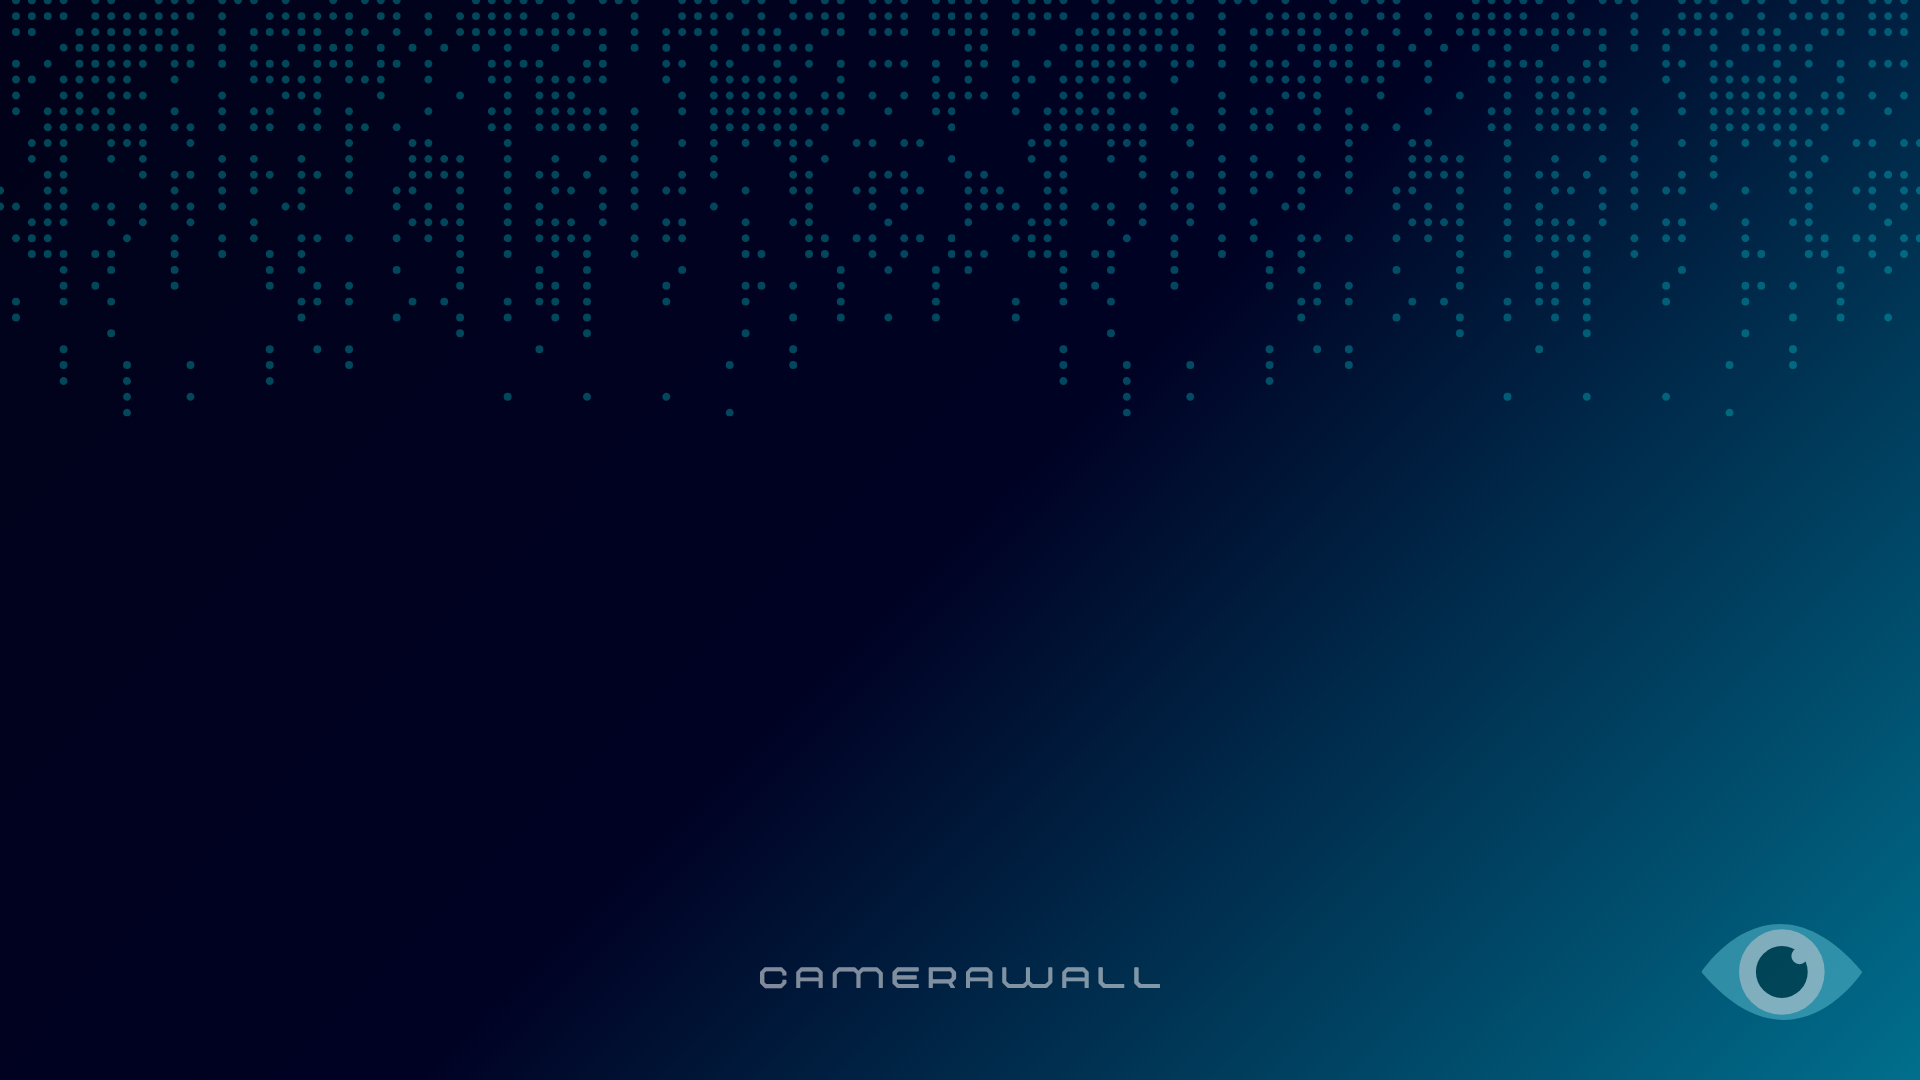
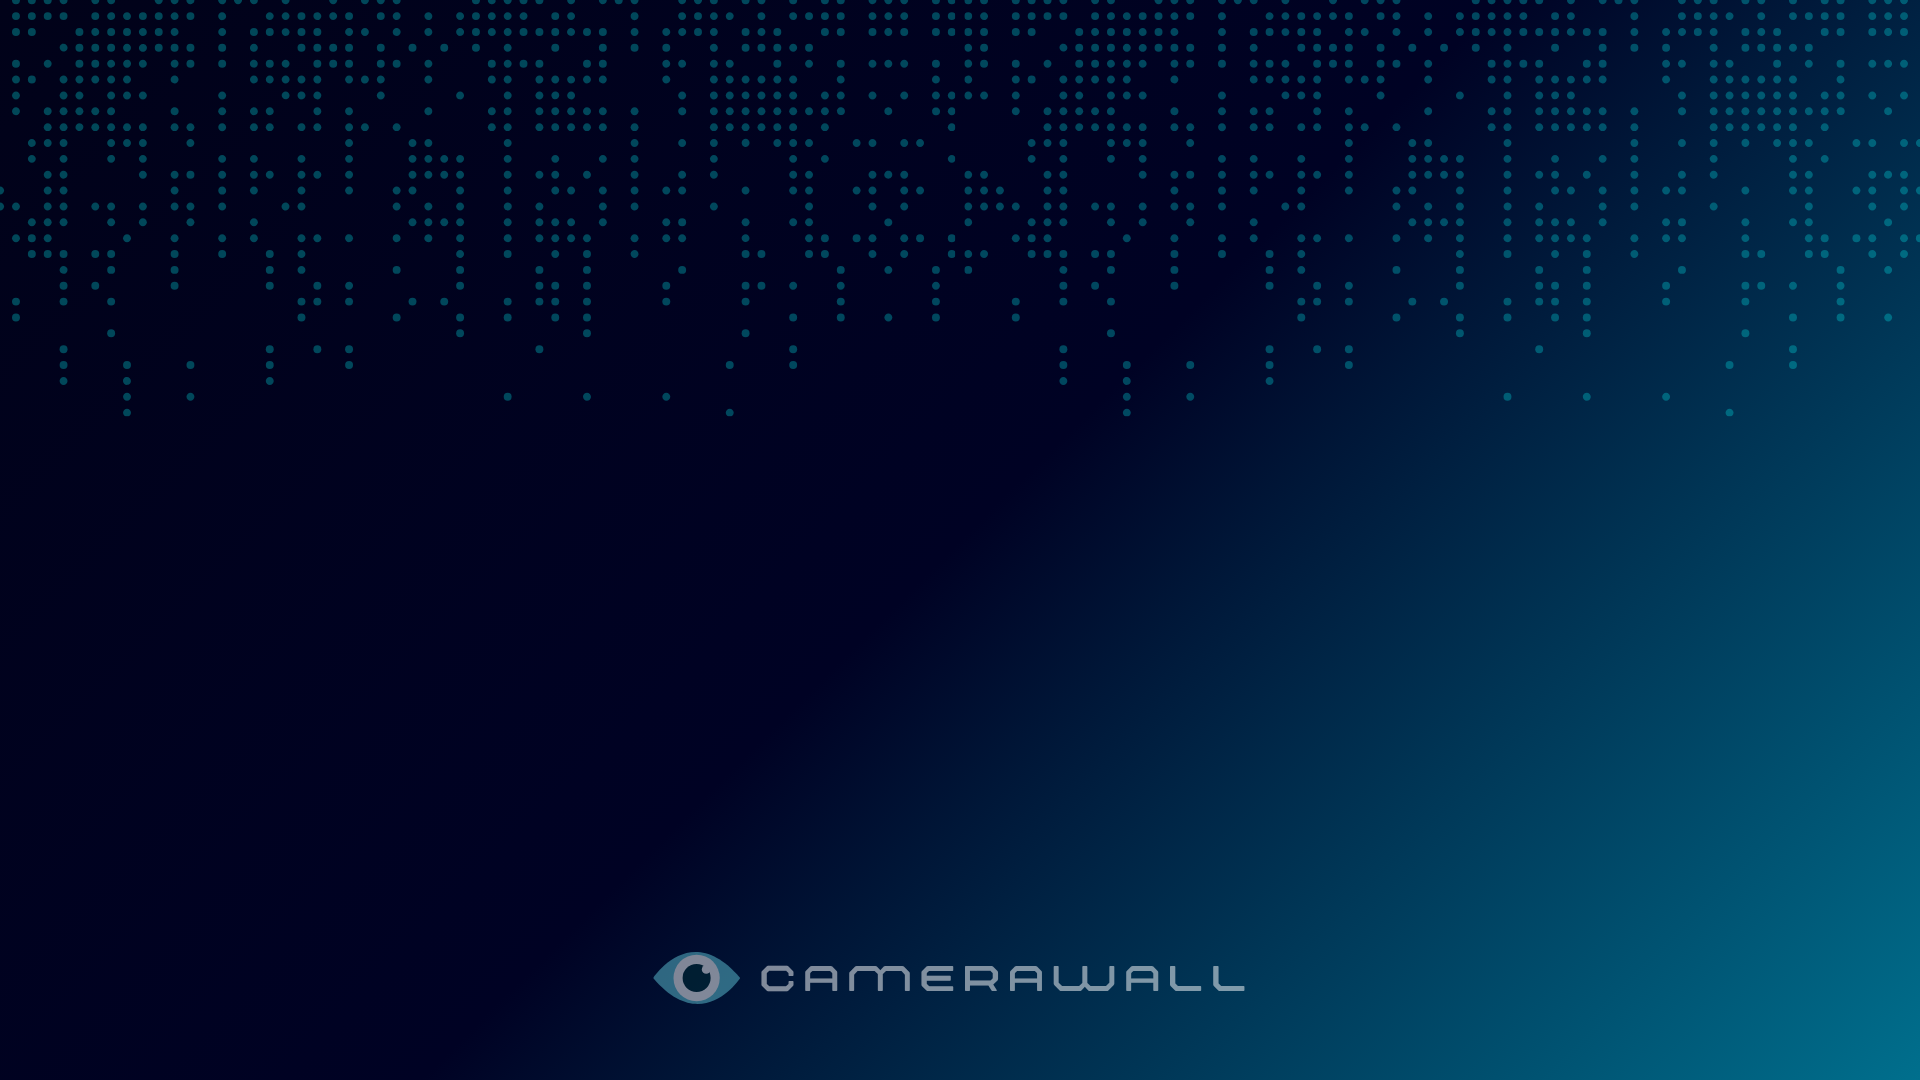
New: Default background added

Changed region(s): [[0.3438, 0.8861, 0.6562, 0.9472], [0.875, 0.8556, 0.9688, 0.9472]]

diff --git a/src/camerawall.cpp b/src/camerawall.cpp
@@ -703,8 +703,29 @@ void CameraWall::loadFromIni()
     m_autoRotate = s.value("autoRotate", true).toBool();
     m_keepBackgroundStreams = s.value("keepAlive", true).toBool();
     backgroundFromIni = s.value("backgroundPath").toString();
+    backgroundCleared = s.value("backgroundCleared", false).toBool();
     qDebug() << "[loadFromIni] backgroundPath=" << backgroundFromIni;
-    applyBackgroundImage(backgroundFromIni); // ez kezeli a nem létező fájlt is
+
+    if (backgroundFromIni.isEmpty() && !backgroundCleared)
+    {
+        const QString exeDir = QCoreApplication::applicationDirPath();
+        const QString defaultBg = QDir(exeDir).filePath("background.png");
+        if (QFile::exists(defaultBg))
+        {
+            backgroundFromIni = defaultBg;
+        }
+    }
+
+    if (!backgroundFromIni.isEmpty() && QFile::exists(backgroundFromIni))
+    {
+        applyBackgroundImage(backgroundFromIni);
+    }
+    else
+    {
+        applyBackgroundImage(QString()); // üres háttér
+    }
+
+    //applyBackgroundImage(backgroundFromIni); // ez kezeli a nem létező fájlt is
     s.endGroup();
 }
 
@@ -748,6 +769,7 @@ void CameraWall::saveViewToIni()
     s.setValue("autoRotate", m_autoRotate);
     s.setValue("keepAlive", m_keepBackgroundStreams);
     s.setValue("backgroundPath", backgroundPath);
+    s.setValue("backgroundCleared", backgroundCleared);
     s.endGroup();
     s.sync();
 }
@@ -957,6 +979,7 @@ void CameraWall::chooseBackgroundImage()
         return;
 
     qDebug() << "[chooseBackgroundImage] file=" << file;
+    backgroundCleared = false;
     applyBackgroundImage(file);
     saveViewToIni();
 }
@@ -1006,6 +1029,8 @@ void CameraWall::updateBackgroundVisible()
 
 void CameraWall::clearBackgroundImage()
 {
+    backgroundPath.clear();
+    backgroundCleared = true;
     applyBackgroundImage(QString());
     saveViewToIni();
 

diff --git a/src/camerawall.h b/src/camerawall.h
@@ -80,6 +80,7 @@ private:
     // háttér
     QLabel *backgroundLabel{};  // +++
     QString backgroundPath{};   // +++
+    bool backgroundCleared = false;
     QString backgroundFromIni{};   // +++
     QPixmap backgroundPixmap{}; // +++
     // rács oldal
